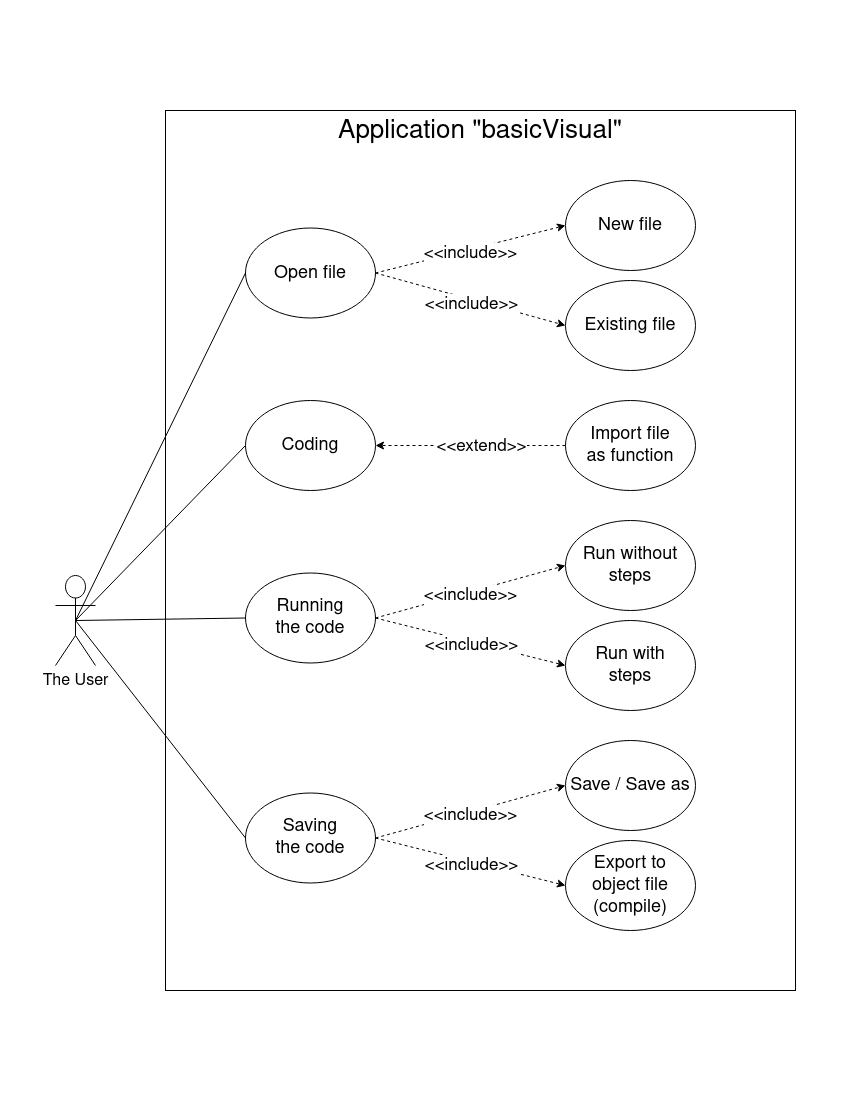
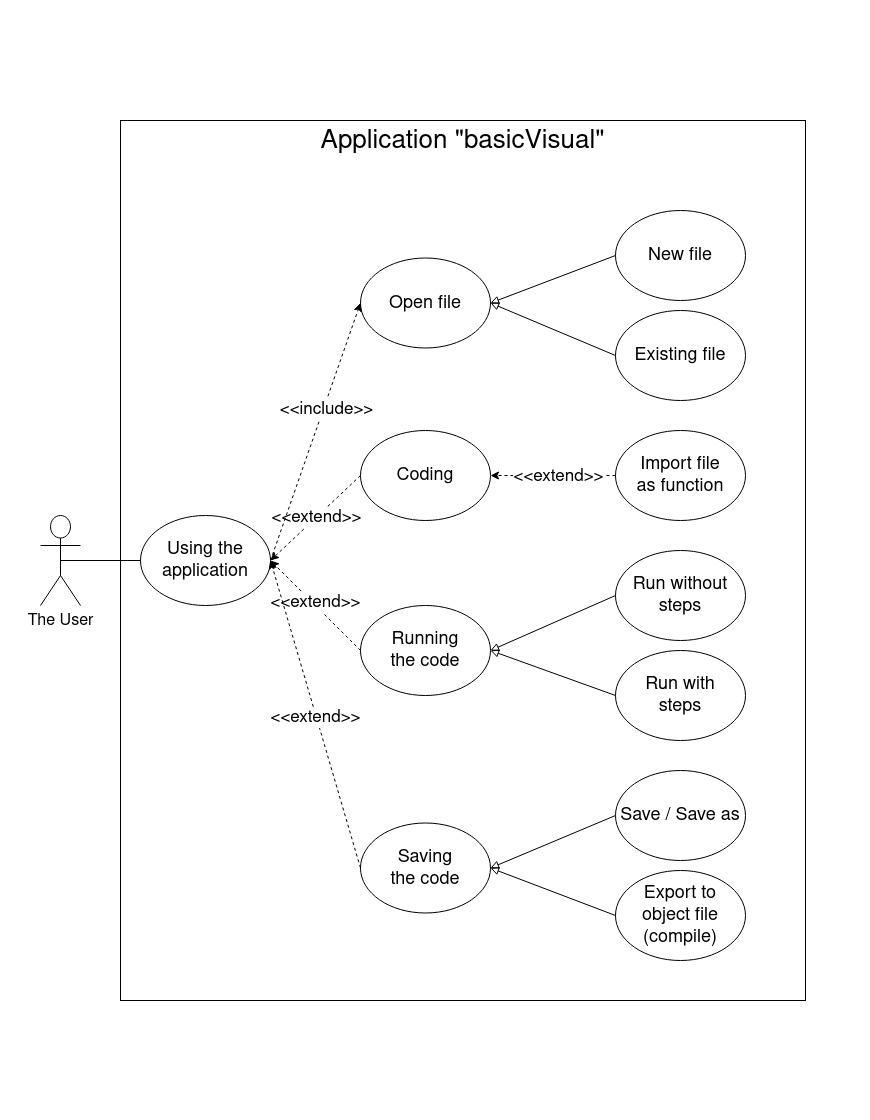
docs: Modified use_cases file and diagram

diff --git a/specification/use_cases/use_cases.md b/specification/use_cases/use_cases.md
@@ -1,14 +1,18 @@
 ## Use cases:
 
-- **Open file:**
-  - New file
-  - Existing file
-- **Coding:**
-  - Import file as function (optional)
-- **Running the code:**
-  - Run without steps
-  - Run with steps
-- **Saving the code:**
-  - Save / Save as (internal representation of code)
-  - Export to object file (compile)
+
+
+- #### Using the application:
+
+  - **Open file:**
+    - New file
+    - Existing file
+  - **Coding:**
+    - Import file as function
+  - **Running the code:**
+    - Run without steps
+    - Run with steps
+  - **Saving the code:**
+    - Save / Save as (internal representation of code)
+    - Export to object file (compile)
 
